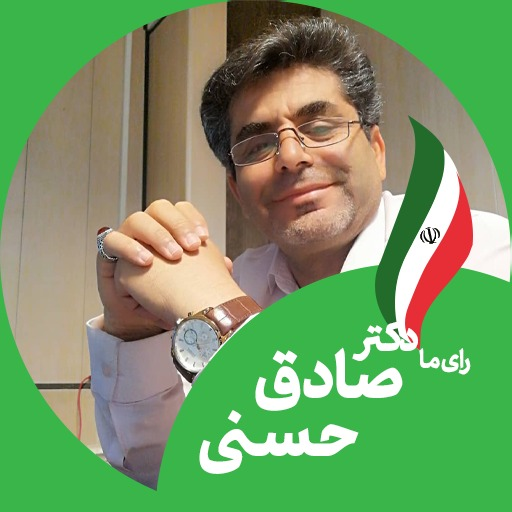
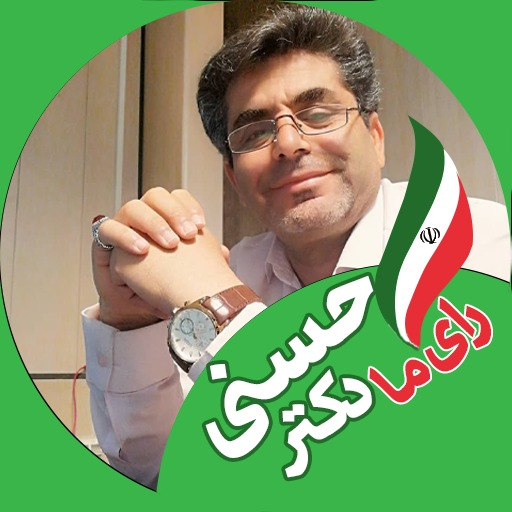
hassani

diff --git a/src/App.js b/src/App.js
@@ -5,7 +5,7 @@ import AvatarDisplay from "./components/avatar"
 import { UserOutlined } from '@ant-design/icons';
 import UploadPic from './components/upload'
 import 'antd/dist/antd.css'
-import Logo from "./index1.jpg";
+import Logo from "./index.jpg";
 import Logo1 from "./logo.jpg";
 import Tel from "./telegram.png"
 import { Image } from 'antd';
@@ -20,27 +20,11 @@ export default class App extends Component {
       <div className="App-root">
       
       <div className="App" style={{bottom:"0px"}}>
-        <h1 style={{color:"white"}}> دولت مردمی خادم مردم سید ابراهیم رئیسی</h1>
+        <h1 style={{color:"white"}}>  <span style={{color:"red"}}> رای ما</span> دکتر صادق حسنی </h1> 
 
-       
+       <span></span>
         <h3 style={{color:"white"}}>عکس خود را آپلود کنید و خروجی با لیبل کاندید محبوب خود دریافت کنید</h3>
-        <h4 style={{color:"white"}}>کانال تلگرام ما را دنبال کنید</h4>
-        <a
-        href={`https://t.me/raisi_daneshjo_hmd`}>
-         <Image
-        preview={false}
-      width={50}
-      src={Tel}
-    />
-
-      </a>
-    <br/>
-      
-        <Image
-        preview={false}
-      width={150}
-      src={Logo1}
-    />
+        
         <AvatarDisplay  icon={null} src={Logo}/>
 
        

diff --git a/src/components/upload.js b/src/components/upload.js
@@ -12,7 +12,10 @@ const UploadPic = () => {
   const [open,setOpen]= React.useState(false);
   const [loading,setLoading]= React.useState(false);
 
-const domain = "http://daneshju-hmd.ir"
+const domain = "http://entekhab1400.pythonanywhere.com"
+
+
+
   const download = e => {
     console.log(e.target.href);
     fetch(e.target.href, {
